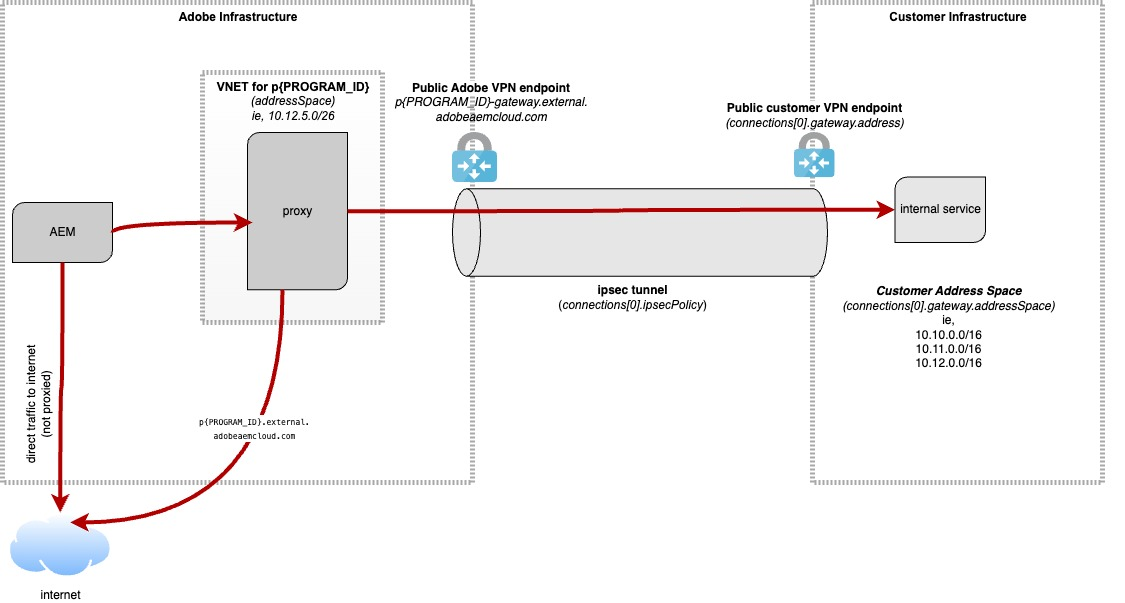
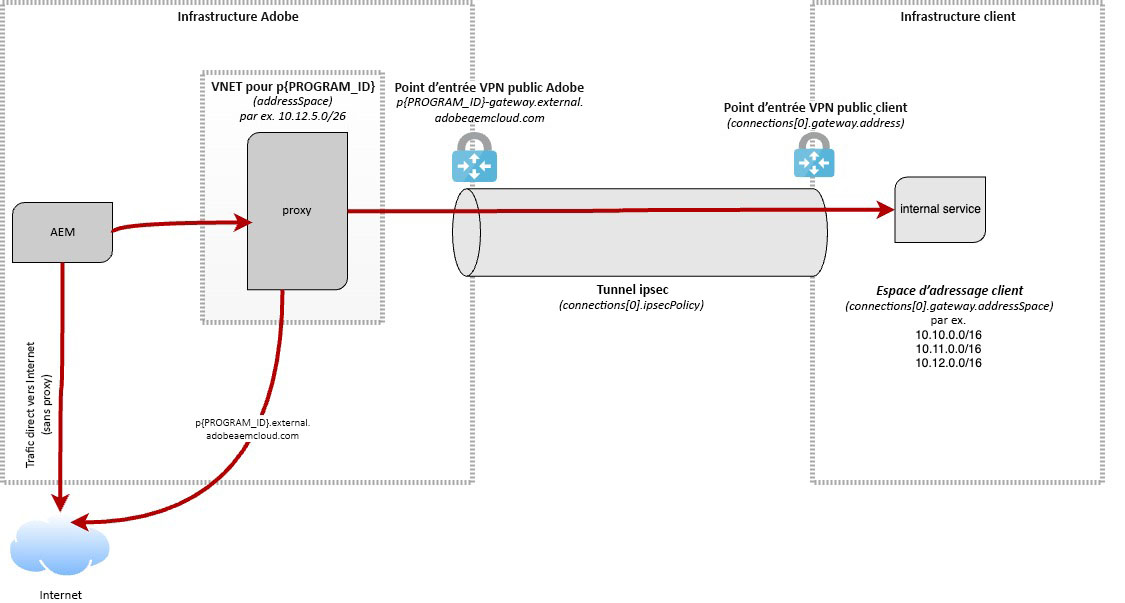
Updated by task 'AUTO_HANDOFF_PRIORITY_1731069582215'  Changes for core/source commit https://git.corp.adobe.com/AdobeDocs/experience-manager-cloud-service.en/commit/54368872e8e7d5f177ca75e6280786b33562cf8f

diff --git a/help/implementing/cloud-manager/release-notes/current.md b/help/implementing/cloud-manager/release-notes/current.md
@@ -1,19 +1,19 @@
 ---
 title: Notes de mise à jour de Cloud Manager 2024.11.0 dans Adobe Experience Manager as a Cloud Service
-description: Découvrez la version de Cloud Manager 2024.11.0 dans AEM as a Cloud Service.
+description: En savoir plus sur la version 2024.11.0 de Cloud Manager dans AEM as a Cloud Service.
 feature: Release Information
 role: Admin
 exl-id: 24d9fc6f-462d-417b-a728-c18157b23bbe
 source-git-commit: 87293526ca9c10a142bc1d1d3a35562b171da385
-workflow-type: tm+mt
+workflow-type: ht
 source-wordcount: '784'
-ht-degree: 30%
+ht-degree: 100%
 
 ---
 
 # Notes de mise à jour de Cloud Manager 2024.11.0 dans Adobe Experience Manager as a Cloud Service {#release-notes}
 
-Découvrez la version de Cloud Manager 2024.11.0 dans la version as a Cloud Service d’AEM (Adobe Experience Manager).
+En savoir plus sur la version 2024.11.0 de Cloud Manager dans AEM (Adobe Experience Manager) as a Cloud Service.
 
 >[!NOTE]
 >
@@ -21,31 +21,31 @@ Découvrez la version de Cloud Manager 2024.11.0 dans la version as a Cloud Serv
 
 ## Dates de publication {#release-date}
 
-La date de publication de Cloud Manager 2024.11.0 dans AEM as a Cloud Service est le 7 novembre 2024.
+La date de publication de Cloud Manager dans AEM as a Cloud Service 2024.11.0 est le 7 novembre 2024.
 
-La prochaine version est prévue le 5 décembre 2024.
+La prochaine version est prévue le 5 décembre 2024.
 
 ## Nouveautés {#what-is-new}
 
-* Découvrez les dernières innovations Edge Delivery Services avec AEM Cloud Service, désormais disponible pour les explorations dans votre programme Sandbox. [En savoir plus](/help/implementing/cloud-manager/getting-access-to-aem-in-cloud/introduction-sandbox-programs.md#auto-creation) <!-- (CMGR-62319) -->
-* La page Paramètres de domaine d’AEM Cloud Manager comprend désormais une fonction de recherche qui vous permet de localiser rapidement les domaines par nom. Vous pouvez saisir des mots-clés dans le champ de recherche pour filtrer et afficher les domaines correspondants, ce qui facilite la gestion efficace de plusieurs domaines. De plus, la page propose des filtres d’état, tels que **Vérifié** et **Non vérifié**, pour affiner davantage les résultats de la recherche. <!-- (CMGR-62615) -->
+* Découvrez les dernières innovations d’Edge Delivery Services avec AEM Cloud Service, désormais disponible dans votre programme Sandbox. [En savoir plus](/help/implementing/cloud-manager/getting-access-to-aem-in-cloud/introduction-sandbox-programs.md#auto-creation) <!-- (CMGR-62319) -->
+* La page des paramètres du domaine d’AEM Cloud Manager comprend désormais une fonction de recherche qui vous permet de localiser rapidement les domaines par nom. Vous pouvez saisir des mots-clés dans le champ de recherche pour filtrer et afficher les domaines correspondants, facilitant ainsi la gestion efficace de multiples domaines. En outre, la page propose des filtres de statut, tels que **Vérifié** et **Non vérifié**, pour affiner davantage les résultats de la recherche.<!-- (CMGR-62615) -->
 
-![Champ de recherche dans Paramètres du domaine](/help/implementing/cloud-manager/assets/domain-settings-search.png)
+![Champ de recherche dans les paramètres du domaine](/help/implementing/cloud-manager/assets/domain-settings-search.png)
 
 ## Programme d’adoption précoce {#early-adoption}
 
 Prenez part à notre programme d’adoption précoce de Cloud Manager afin de pouvoir tester certaines fonctionnalités à venir.
 
-### Accueil AEM {#aem-home}
+### Page d’accueil AEM {#aem-home}
 
-AEM Accueil propose un point de départ centralisé pour la gestion du contenu, des ressources et des sites dans Adobe Experience Manager. Conçu pour offrir une expérience personnalisée, AEM Accueil vous permet de naviguer sans problème dans l’écosystème AEM en fonction de vos rôles et objectifs. Il fournit des informations clés et des actions recommandées pour vous aider à atteindre vos objectifs de manière efficace. Grâce à une disposition claire et personnalisée, AEM Accueil vous permet d’accéder rapidement aux outils essentiels, ce qui vous permet d’offrir une expérience rationalisée et efficace dans toutes les fonctions d’AEM.
+La page d’accueil AEM est le point de départ centralisé de la gestion du contenu, des ressources et des sites dans Adobe Experience Manager. Conçue pour offrir une expérience personnalisée, elle vous permet de naviguer de manière fluide à travers l’écosystème AEM en fonction de vos rôles et objectifs. Véritable guide, elle vous fournit des informations clés et vous recommande des actions pour vous aider à atteindre vos objectifs de manière efficace. Avec une interface claire et centrée sur les utilisateurs et les utilisatrices, la page d’accueil AEM facilite un accès rapide aux outils essentiels et offre une expérience efficace et rationalisée pour utiliser toutes les fonctionnalités d’AEM.
 
-Disponible pour les utilisateurs précoces, AEM Home offre une expérience optimisée axée sur l’amélioration des workflows, la hiérarchisation des objectifs et la diffusion de résultats. L’opt-in vous permet d’influencer le développement d’AEM Home en fournissant des commentaires qui aident à façonner son avenir et à améliorer sa valeur pour l’ensemble de la communauté AEM.
+Actuellement en phase d’adoption précoce., la page d’accueil AEM offre une expérience optimisée axée sur l’amélioration des workflows, la hiérarchisation des objectifs et la diffusion de résultats. En participant à ce test, vous pouvez avoir un impact sur le développement de cette page en fournissant des commentaires qui contribuent à façonner son évolution et à améliorer sa valeur pour l’ensemble de la communauté AEM.
 
-Si vous souhaitez tester cette nouvelle fonctionnalité et partager vos commentaires, envoyez un email à [Grp-AemHome@adobe.com](mailto:Grp-AemHome@adobe.com) à partir de votre adresse électronique associée à votre Adobe ID. Veillez à inclure les informations suivantes :
+Pour exprimer votre intérêt et partager vos commentaires, envoyez un e-mail à [Grp-AemHome@adobe.com](mailto:Grp-AemHome@adobe.com) à partir de l’adresse e-mail associée à votre Adobe ID. N’oubliez pas d’inclure les informations suivantes :
 
-* Le rôle qui correspond le mieux à votre profil : auteur de contenu, développeur, propriétaire d’entreprise, administrateur ou autre (fournissez une description).
-* Votre surface d’accès principale AEM : AEM Sites, AEM Assets, AEM Forms, Cloud Manager ou Autre (décrivez-la).
+* Le rôle qui correspond le mieux à votre profil : créateur ou créatrice de contenu, développeur ou développeuse, propriétaire d’entreprise, membre de l’équipe d’administration ou autre (fournissez une description).
+* Votre principale surface d’accès à AEM : AEM Sites, AEM Assets, AEM Forms, Cloud Manager, ou Autre (fournir une description).
 
 ### Apportez votre propre Git - avec prise en charge de GitLab et Bitbucket {#gitlab-bitbucket}
 
@@ -61,16 +61,16 @@ Voir [Ajouter des référentiels externes dans Cloud Manager](/help/implementin
 >
 >Actuellement, les contrôles de qualité du code des requêtes d’extraction prêts à l’emploi sont exclusifs aux référentiels hébergés par GitHub, mais une mise à jour permettant d’étendre cette fonctionnalité à d’autres fournisseurs Git est en cours.
 
-Si vous souhaitez tester cette nouvelle fonctionnalité et faire part de vos commentaires, envoyez un e-mail à [Grp-CloudManager_BYOG@adobe.com](mailto:Grp-CloudManager_BYOG@adobe.com) à partir de l’adresse e-mail associée à votre Adobe ID. Veillez à inclure la plateforme Git à utiliser et si vous utilisez une structure de référentiel privée/publique ou d’entreprise. —>
+Si vous souhaitez tester cette nouvelle fonctionnalité et faire part de vos commentaires, envoyez un e-mail à [Grp-CloudManager_BYOG@adobe.com](mailto:Grp-CloudManager_BYOG@adobe.com) à partir de l’adresse e-mail associée à votre Adobe ID. N’oubliez pas d’indiquer la plateforme Git que vous souhaitez utiliser et de préciser si vous êtes sur une structure de référentiel privée/publique ou d’entreprise. -->
 
 
 ## Correctifs
 
-* Une mise à jour récente corrigeait un problème dans SonarQube en raison duquel les mots de passe codés en dur n’étaient pas détectés dans certains cas. Le correctif inclut désormais une vérification de modèle étendue et s’aligne sur les normes de détection par défaut dans SonarQube. <!-- CMGR-62682 -->
-* Lors de la mise à jour d’un certificat SSL dans Cloud Manager, une erreur inconnue s’affichait après avoir cliqué sur **[!UICONTROL Mettre à jour]** dans la boîte de dialogue **[!UICONTROL Afficher et mettre à jour le certificat SSL]**. <!-- CMGR-62848 -->
-* Dans Cloud Manager, les mises à jour de certificat SSL échouaient avec l’erreur &quot;Le nouveau certificat ne correspond pas aux domaines existants&quot;, même si les domaines étaient identiques mais présentaient des différences en majuscules ou en minuscules. La mise à jour reconnaît désormais les domaines comme insensibles à la casse, en conformité avec les normes RFC. <!-- CMGR-62844 -->
-* Dans Cloud Manager, les liaisons de Liste autorisée IP sont restées bloquées en cours d’exécution, car il manquait des liens de clé étrangère vers les configurations de domaine. Le correctif garantit désormais que les liaisons de Liste autorisée IP sont correctement liées aux configurations de domaine associées. <!-- CMGR-62838 -->
-* Cloud Manager valide l’état OCSP (Online Certificate Status Protocol) d’un certificat SSL. Adobe vous recommande également de valider l’intégrité de votre certificat localement à l’aide d’un outil tel que `openssl verify -untrusted intermediate.pem certificate.pem` avant de l’installer via Cloud Manager. Pour plus d’informations, voir la [documentation sur les exigences de certificat SSL](https://experienceleague.adobe.com/en/docs/experience-manager-cloud-service/content/implementing/using-cloud-manager/manage-ssl-certificates/introduction-to-ssl-certificates#requirements). <!-- CMGR-62341  -->
+* Une mise à jour récente a corrigé un problème dans SonarQube où les mots de passe codés en dur n’étaient pas toujours détectés. Le correctif inclut désormais une vérification de modèle étendue et s’aligne sur les normes de détection par défaut dans SonarQube. <!-- CMGR-62682 -->
+* Lors de la mise à jour d’un certificat SSL dans Cloud Manager, une erreur inconnue s’affichait après avoir cliqué sur **[!UICONTROL Mettre à jour]** dans la boîte de dialogue **[!UICONTROL Afficher et mettre à jour le certificat SSL]**. <!-- CMGR-62848 -->
+* Dans Cloud Manager, les mises à jour des certificats SSL échouaient en raison d’une erreur indiquant « Le nouveau certificat ne correspond pas aux domaines existants », même si les domaines étaient identiques mais présentaient des variations de casse (majuscules/minuscules). La mise à jour permet désormais de reconnaître les domaines comme insensibles à la casse, conformément aux normes RFC. <!-- CMGR-62844 -->
+* Dans Cloud Manager, le statut des liaisons pour les adresses IP autorisées restait bloqué sur « en cours » faute de liens de clé étrangère avec les configurations des domaines. Le correctif assure désormais que les liaisons des adresses IP autorisées sont correctement associées aux configurations de domaine correspondantes. <!-- CMGR-62838 -->
+* Cloud Manager valide le statut OCSP (Online Certificate Status Protocol) d’un certificat SSL. Adobe vous recommande également de valider l’intégrité de votre certificat localement à l’aide d’un outil comme `openssl verify -untrusted intermediate.pem certificate.pem` avant de l’installer via Cloud Manager. Pour plus d’informations, consultez la [documentation sur les conditions requises pour les certificats SSL](https://experienceleague.adobe.com/fr/docs/experience-manager-cloud-service/content/implementing/using-cloud-manager/manage-ssl-certificates/introduction-to-ssl-certificates#requirements). <!-- CMGR-62341  -->
 
 
 

diff --git a/help/security/configuring-advanced-networking.md b/help/security/configuring-advanced-networking.md
@@ -5,9 +5,9 @@ exl-id: 968cb7be-4ed5-47e5-8586-440710e4aaa9
 feature: Security
 role: Admin
 source-git-commit: 2a7d46e91bbd6ca96bd8b7fd5d4d84cf69bdee36
-workflow-type: tm+mt
+workflow-type: ht
 source-wordcount: '5524'
-ht-degree: 99%
+ht-degree: 100%
 
 ---
 
@@ -396,7 +396,7 @@ Pour contrôler que le trafic est effectivement sortant sur l’adresse IP dédi
 
 ## Réseau privé virtuel (VPN) {#vpn}
 
-Un VPN permet de se connecter à une infrastructure On-Premise ou à un centre de données à partir des instances de création, de publication ou d’aperçu. Cela peut être utile, par exemple, pour sécuriser l’accès à une base de données. Il permet également de se connecter aux fournisseurs SaaS tels qu’un fournisseur de gestion de la relation client qui prend en charge VPN.
+Un VPN permet de se connecter à une infrastructure On-Premise ou à un centre de données à partir des instances de création, de publication ou d’aperçu. Cela peut être utile, par exemple, pour sécuriser l’accès à une base de données. Il permet également de se connecter à des fournisseurs SaaS tels qu’un fournisseur CRM qui prend en charge le VPN.
 
 La plupart des appareils VPN dotés de la technologie IPSec sont pris en charge. Consultez les informations de la colonne **Instructions de configuration basées sur l’itinéraire** dans [cette liste d’appareils.](https://learn.microsoft.com/fr-fr/azure/vpn-gateway/vpn-gateway-about-vpn-devices#devicetable) Configurez l’appareil comme décrit dans le tableau.
 
@@ -582,7 +582,7 @@ Le diagramme ci-dessous offre une représentation visuelle d’un ensemble de do
 </tbody>
 </table>
 
-## Activer les configurations de mise en réseau avancée dans les environnements {#enabling}
+## Activation des configurations de mise en réseau avancée dans les environnements {#enabling}
 
 Une fois que vous avez configuré une option de mise en réseau avancée pour un programme afin de l’utiliser, qu’il s’agisse de la [sortie de port flexible](#flexible-port-egress), de l’[adresse IP de sortie dédiée](#dedicated-egress-ip-address) ou du [VPN](#vpn), vous devez l’activer au niveau de l’environnement.
 
